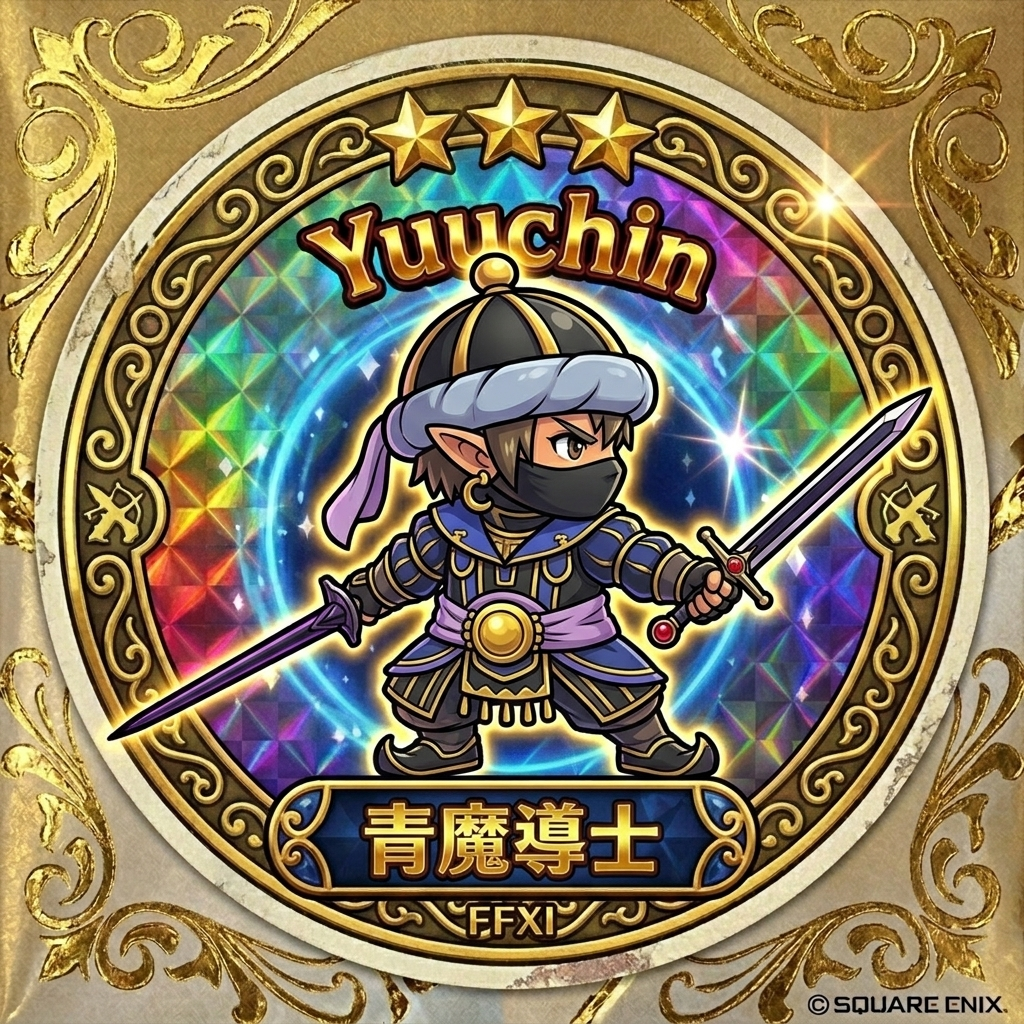
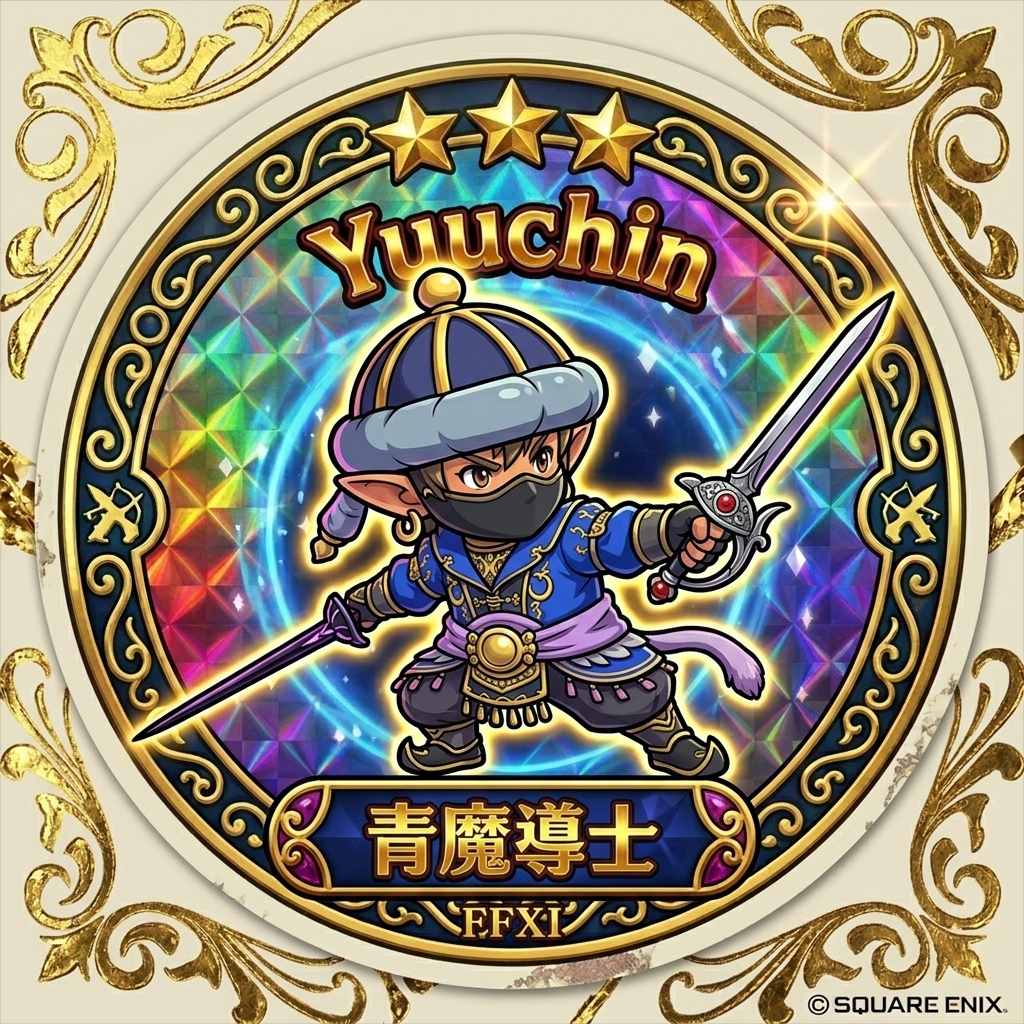
chore: apply front-facing blue mage image and update status report🐾

diff --git a/STATUS_REPORT.md b/STATUS_REPORT.md
@@ -1,12 +1,12 @@
 # プロジェクト履歴と現在のステータス (Project Status & Tasks)
 
 ## 最新更新日時
-2026-06-17 (最新の更新: 過去ログから発掘した青魔道士シールのポーズ画像「ビックリマン青.png」および「ビックリマン_ゆうちん青魔.png」を復元・適用し、本番リポジトリへ反映いたしました🐾)
+2026-06-17 (最新の更新: 過去ログから発掘した青魔道士シールの正面ポーズ画像「ビックリマン青.png」および「ビックリマン_ゆうちん青魔.png」を復元・適用し、本番リポジトリへ反映いたしました🐾)
 
 ## 現在のステータスと直近 of 作業
 1.  【ビックリマン青魔道士画像の過去決定版の復元・保存】 [完了]
-    * 過去の会話ログから、ご主人様が指定されていたお気に入りのポーズ画像（bikkuriman_blue_final_perfect_1781573542697.png）を特定して発掘し、「画像素材/images/ビックリマン青.png」および「画像素材/images/ビックリマン_ゆうちん青魔.png」へ上書き適用し、本番反映を完了いたしました🐾
-    * また、予備画像（bikkuriman_blue_composite_perfect.png）も「画像素材/images/ビックリマン青_予備.png」として別名保存いたしました🐾
+    * 過去の会話ログから、ご主人様が指定されていたお気に入りの正面ポーズ画像（blue_final_fixed.png）を特定して発掘し、「画像素材/images/ビックリマン青.png」および「画像素材/images/ビックリマン_ゆうちん青魔.png」へ上書き適用し、本番反映を完了いたしました🐾
+    * また、予備画像も「画像素材/images/ビックリマン青_予備.png」として上書き保存いたしました🐾
 2.  【ビックリマン赤魔道士画像の剣と帽子装飾の完全修正】 [完了]
     * ご主人様のご指示に基づき、帽子の「銀色金属エンブレムバッジ」の復活、羽飾りの「銀色（シルバー）化」および「右寄り配置・サイズ縮小」を行い、キャラクターの向き（右向き）と立体感が完璧に調和したデザインへ完全修正いたしました🐾
     * 修正した画像を日本語名「画像素材/images/ビックリマン赤.png」および「画像素材/images/ビックリマン_ゆう ちん赤魔.png」へ安全に上書き保存し、本番リポジトリへコミット＆プッシュを完了いたしました🐾
